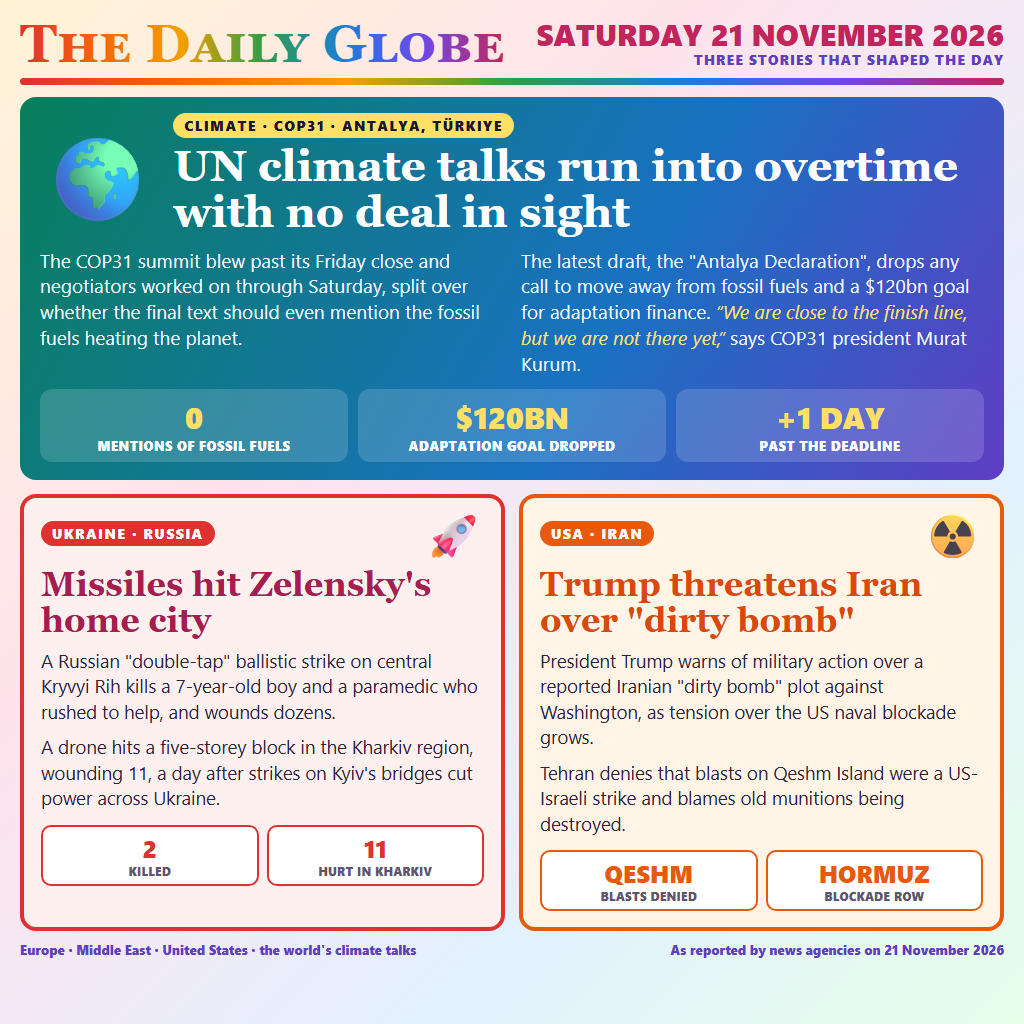
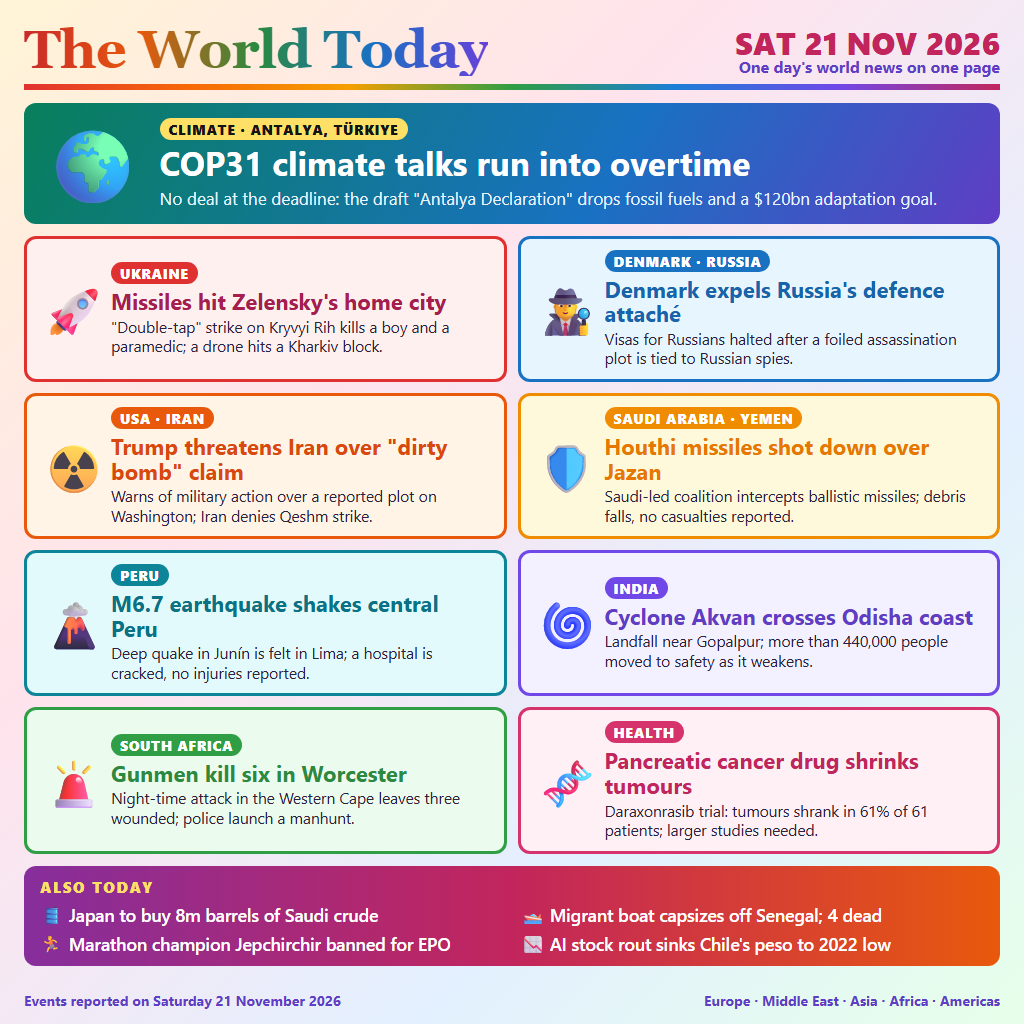
Best-of edition: first layout, full colour, accurate stories from six regions

diff --git a/src/page.html b/src/page.html
@@ -3,82 +3,90 @@
 <style>
 *{box-sizing:border-box;margin:0;padding:0}
 html,body{width:1024px;height:1024px;overflow:hidden}
-body{color:#1b1530;font-family:"Segoe UI",Arial,sans-serif;padding:16px 20px 0;
+body{font-family:"Segoe UI",Arial,sans-serif;color:#141414;padding:22px 24px 18px;
   background:linear-gradient(135deg,#fff4d6 0%,#ffe3ec 35%,#e3f0ff 70%,#e6ffe9 100%)}
-header{display:flex;justify-content:space-between;align-items:center}
-.mast{font-family:Georgia,"Times New Roman",serif;font-weight:700;font-size:54px;line-height:1;font-variant:small-caps;letter-spacing:.5px;
-  background:linear-gradient(90deg,#e03131,#f76707,#f59f00,#2f9e44,#1c7ed6,#7048e8,#c2255c);-webkit-background-clip:text;background-clip:text;color:transparent}
-.date{text-align:right;font-weight:900;font-size:30px;line-height:1;color:#c2255c}
-.date small{display:block;font-size:14px;color:#5f3dc4;font-weight:800;letter-spacing:1px;text-transform:uppercase;margin-top:4px}
-.bar{height:7px;border-radius:4px;margin-top:8px;background:linear-gradient(90deg,#e03131,#f76707,#f59f00,#2f9e44,#1c7ed6,#7048e8,#c2255c)}
-.kick{display:inline-block;font-weight:900;font-size:14px;letter-spacing:1.5px;text-transform:uppercase;padding:3px 11px;border-radius:20px}
-.lead{margin-top:12px;border-radius:16px;padding:16px 20px 18px;color:#fff;background:linear-gradient(120deg,#087f5b,#1971c2 60%,#5f3dc4)}
-.lead .top{display:flex;gap:18px;align-items:center}
-.lead .ic{font-size:84px;line-height:1}
-.lead .kick{background:#ffe066;color:#1b1530}
-.lead h1{font-family:Georgia,"Times New Roman",serif;font-size:44px;line-height:1.04;margin-top:6px}
-.lead .body{display:grid;grid-template-columns:1fr 1fr;gap:18px;margin-top:12px}
-.lead p{font-size:19px;line-height:1.36;color:#eef6ff}
-.lead q{font-style:italic;color:#ffe066}
-.stats{display:grid;grid-template-columns:repeat(3,1fr);gap:10px;margin-top:12px}
-.stats div{background:rgba(255,255,255,.16);border-radius:12px;padding:8px 10px;text-align:center;font-weight:800;font-size:13px;letter-spacing:.5px;text-transform:uppercase}
-.stats b{display:block;font-size:30px;color:#ffe066;letter-spacing:0}
-.pair{display:grid;grid-template-columns:1fr 1fr;gap:14px;margin-top:14px}
-.card{border-radius:16px;padding:14px 17px 16px;background:var(--t);border:4px solid var(--c)}
-.card .kick{background:var(--c);color:#fff}
-.card .hd{display:flex;justify-content:space-between;align-items:center}
-.card .hd span.ic{font-size:44px;line-height:1}
-.card h2{font-family:Georgia,"Times New Roman",serif;font-size:34px;line-height:1.06;margin-top:10px;color:var(--d)}
-.card p{font-size:18.5px;line-height:1.38;margin-top:10px;color:#2b2240}
-.card .fig{margin-top:14px;display:flex;gap:8px}
-.card .fig div{flex:1;background:#fff;border:2px solid var(--c);border-radius:10px;text-align:center;padding:5px 4px;font-weight:800;font-size:11.5px;letter-spacing:.5px;text-transform:uppercase;color:#5c5670}
-.card .fig b{display:block;font-size:24px;color:var(--c);letter-spacing:0}
-.red{--c:#e03131;--t:#fff0f0;--d:#a61e4d}.ora{--c:#e8590c;--t:#fff4e6;--d:#d9480f}
-footer{margin-top:10px;display:flex;justify-content:space-between;font-weight:800;font-size:13px;color:#5f3dc4}
+header{display:flex;justify-content:space-between;align-items:flex-end;padding-bottom:8px;
+  border-bottom:6px solid;border-image:linear-gradient(90deg,#e03131,#f76707,#f59f00,#2f9e44,#1c7ed6,#7048e8,#c2255c) 1}
+h1{font-family:Georgia,"Times New Roman",serif;font-size:54px;letter-spacing:-1px;line-height:1;
+  background:linear-gradient(90deg,#c92a2a,#e8590c,#2b8a3e,#1971c2,#6741d9);-webkit-background-clip:text;background-clip:text;color:transparent}
+.date{text-align:right;font-weight:900;font-size:31px;line-height:1.05;color:#c2255c}
+.date small{display:block;font-size:16px;color:#5f3dc4;font-weight:700}
+.lead{margin-top:13px;display:flex;gap:16px;border-radius:12px;padding:15px 18px;align-items:center;color:#fff;
+  background:linear-gradient(120deg,#087f5b,#1971c2 60%,#5f3dc4)}
+.lead .ic{font-size:74px;line-height:1}
+.lead h2{font-size:33px;line-height:1.08}
+.lead p{font-size:17px;margin-top:6px;color:#e7f5ff}
+.tag{display:inline-block;font-size:13.5px;font-weight:900;letter-spacing:1px;text-transform:uppercase;padding:2px 9px;border-radius:20px;margin-bottom:5px}
+.lead .tag{background:#ffe066;color:#141414}
+.grid{margin-top:12px;display:grid;grid-template-columns:1fr 1fr;gap:11px}
+.card{background:var(--t);border-radius:12px;padding:11px 14px;display:flex;gap:12px;align-items:center;border:3px solid var(--c)}
+.card .ic{font-size:48px;line-height:1;width:58px;text-align:center}
+.card h3{font-size:22px;line-height:1.12;color:var(--d)}
+.card p{font-size:15.5px;color:#2b2240;margin-top:3px;line-height:1.26}
+.card .tag{background:var(--c);color:#fff}
+.also{margin-top:12px;border-radius:12px;padding:11px 16px;display:grid;grid-template-columns:1fr 1fr;gap:6px 18px;font-size:17.5px;font-weight:600;color:#fff;
+  background:linear-gradient(90deg,#862e9c,#c2255c,#e8590c)}
+.also b{grid-column:1/3;color:#ffe066;letter-spacing:2px;font-size:14.5px}
+footer{position:absolute;left:24px;right:24px;bottom:14px;font-size:14px;font-weight:700;color:#5f3dc4;display:flex;justify-content:space-between}
+.red{--c:#e03131;--t:#fff0f0;--d:#a61e4d}.blu{--c:#1971c2;--t:#e7f5ff;--d:#1864ab}.ora{--c:#e8590c;--t:#fff4e6;--d:#d9480f}
+.tea{--c:#0c8599;--t:#e3fafc;--d:#0b7285}.ind{--c:#7048e8;--t:#f3f0ff;--d:#5f3dc4}.grn{--c:#2f9e44;--t:#ebfbee;--d:#2b8a3e}
+.yel{--c:#f08c00;--t:#fff9db;--d:#e67700}.pin{--c:#d6336c;--t:#fff0f6;--d:#c2255c}
 </style></head>
 <body>
 <header>
-  <div class="mast">The Daily Globe</div>
-  <div class="date">SATURDAY 21 NOVEMBER 2026<small>Three stories that shaped the day</small></div>
+  <h1>The World Today</h1>
+  <div class="date">SAT 21 NOV 2026<small>One day's world news on one page</small></div>
 </header>
-<div class="bar"></div>
 
 <div class="lead">
-  <div class="top">
-    <div class="ic">🌍</div>
-    <div>
-      <span class="kick">Climate · COP31 · Antalya, Türkiye</span>
-      <h1>UN climate talks run into overtime with no deal in sight</h1>
-    </div>
-  </div>
-  <div class="body">
-    <p>The COP31 summit blew past its Friday close and negotiators worked on through Saturday, split over whether the final text should even mention the fossil fuels heating the planet.</p>
-    <p>The latest draft, the "Antalya Declaration", drops any call to move away from fossil fuels and a $120bn goal for adaptation finance. <q>We are close to the finish line, but we are not there yet,</q> says COP31 president Murat Kurum.</p>
-  </div>
-  <div class="stats">
-    <div><b>0</b>mentions of fossil fuels</div>
-    <div><b>$120bn</b>adaptation goal dropped</div>
-    <div><b>+1 day</b>past the deadline</div>
+  <div class="ic">🌍</div>
+  <div>
+    <span class="tag">Climate · Antalya, Türkiye</span>
+    <h2>COP31 climate talks run into overtime</h2>
+    <p>No deal at the deadline: the draft "Antalya Declaration" drops fossil fuels and a $120bn adaptation goal.</p>
   </div>
 </div>
 
-<div class="pair">
-  <div class="card red">
-    <div class="hd"><span class="kick">Ukraine · Russia</span><span class="ic">🚀</span></div>
-    <h2>Missiles hit Zelensky's home city</h2>
-    <p>A Russian "double-tap" ballistic strike on central Kryvyi Rih kills a 7-year-old boy and a paramedic who rushed to help, and wounds dozens.</p>
-    <p>A drone hits a five-storey block in the Kharkiv region, wounding 11, a day after strikes on Kyiv's bridges cut power across Ukraine.</p>
-    <div class="fig"><div><b>2</b>killed</div><div><b>11</b>hurt in Kharkiv</div></div>
-  </div>
+<div class="grid">
+  <div class="card red"><div class="ic">🚀</div><div><span class="tag">Ukraine</span>
+    <h3>Missiles hit Zelensky's home city</h3>
+    <p>"Double-tap" strike on Kryvyi Rih kills a boy and a paramedic; a drone hits a Kharkiv block.</p></div></div>
 
-  <div class="card ora">
-    <div class="hd"><span class="kick">USA · Iran</span><span class="ic">☢</span></div>
-    <h2>Trump threatens Iran over "dirty bomb"</h2>
-    <p>President Trump warns of military action over a reported Iranian "dirty bomb" plot against Washington, as tension over the US naval blockade grows.</p>
-    <p>Tehran denies that blasts on Qeshm Island were a US-Israeli strike and blames old munitions being destroyed.</p>
-    <div class="fig"><div><b>Qeshm</b>blasts denied</div><div><b>Hormuz</b>blockade row</div></div>
-  </div>
+  <div class="card blu"><div class="ic">🕵</div><div><span class="tag">Denmark · Russia</span>
+    <h3>Denmark expels Russia's defence attaché</h3>
+    <p>Visas for Russians halted after a foiled assassination plot is tied to Russian spies.</p></div></div>
+
+  <div class="card ora"><div class="ic">☢</div><div><span class="tag">USA · Iran</span>
+    <h3>Trump threatens Iran over "dirty bomb" claim</h3>
+    <p>Warns of military action over a reported plot on Washington; Iran denies Qeshm strike.</p></div></div>
+
+  <div class="card yel"><div class="ic">🛡</div><div><span class="tag">Saudi Arabia · Yemen</span>
+    <h3>Houthi missiles shot down over Jazan</h3>
+    <p>Saudi-led coalition intercepts ballistic missiles; debris falls, no casualties reported.</p></div></div>
+
+  <div class="card tea"><div class="ic">🌋</div><div><span class="tag">Peru</span>
+    <h3>M6.7 earthquake shakes central Peru</h3>
+    <p>Deep quake in Junín is felt in Lima; a hospital is cracked, no injuries reported.</p></div></div>
+
+  <div class="card ind"><div class="ic">🌀</div><div><span class="tag">India</span>
+    <h3>Cyclone Akvan crosses Odisha coast</h3>
+    <p>Landfall near Gopalpur; more than 440,000 people moved to safety as it weakens.</p></div></div>
+
+  <div class="card grn"><div class="ic">🚨</div><div><span class="tag">South Africa</span>
+    <h3>Gunmen kill six in Worcester</h3>
+    <p>Night-time attack in the Western Cape leaves three wounded; police launch a manhunt.</p></div></div>
+
+  <div class="card pin"><div class="ic">🧬</div><div><span class="tag">Health</span>
+    <h3>Pancreatic cancer drug shrinks tumours</h3>
+    <p>Daraxonrasib trial: tumours shrank in 61% of 61 patients; larger studies needed.</p></div></div>
 </div>
 
-<footer><span>Europe · Middle East · United States · the world's climate talks</span><span>As reported by news agencies on 21 November 2026</span></footer>
+<div class="also"><b>ALSO TODAY</b>
+  <span>🛢 Japan to buy 8m barrels of Saudi crude</span>
+  <span>🚤 Migrant boat capsizes off Senegal; 4 dead</span>
+  <span>🏃 Marathon champion Jepchirchir banned for EPO</span>
+  <span>📉 AI stock rout sinks Chile's peso to 2022 low</span>
+</div>
+
+<footer><span>Events reported on Saturday 21 November 2026</span><span>Europe · Middle East · Asia · Africa · Americas</span></footer>
 </body></html>
